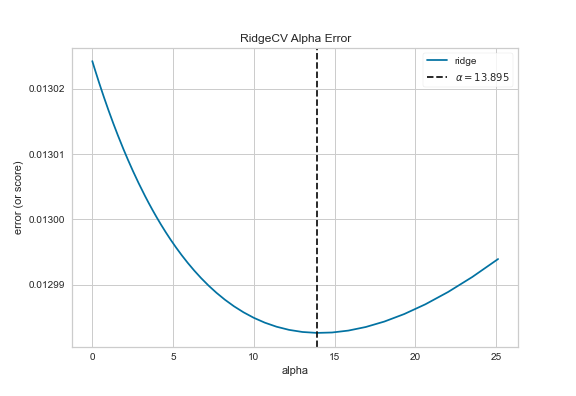
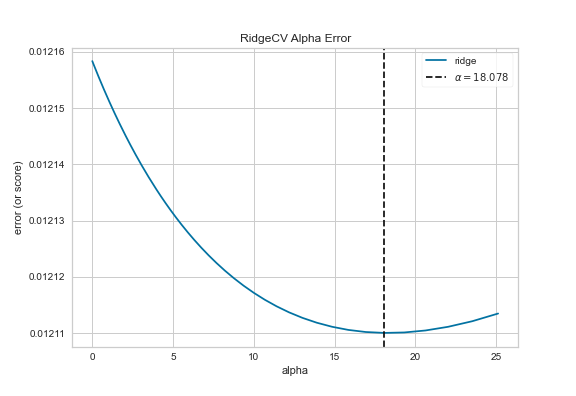
push me

diff --git a/alphachecking_Rachel.py b/alphachecking_Rachel.py
@@ -17,6 +17,67 @@ def splitdata(df, feat, predictors):
     y = df[feat]
     X = df[predictors]
     return X, y
+    
+
+def splitdata_normalize(df, feat, predictors):  
+    df2= df[[feat] + predictors] #returns a numpy array
+    min_max_scaler = preprocessing.MinMaxScaler()
+    xy_scaled = min_max_scaler.fit_transform(df2.values)
+    df_scaled = pd.DataFrame(xy_scaled, columns=df2.columns)
+    y = df_scaled[feat]
+    X = df_scaled[predictors]
+    #X_int = pd.DataFrame(np.concatenate( ( np.ones((X.shape[0], 1)), X), axis = 1 ), columns = ['intercept'] + predictors)
+    return X, y
+
+def runRidgeRegPresplit(df, X_train, X_test, y_train, y_test, alpha=1):
+    linreg = Ridge(fit_intercept=True, alpha=alpha)
+    linreg.fit(X_train, y_train)
+    #train_results = getcoeffandpvals(linreg, X_train, y_train)
+    coefs = [linreg.intercept_] + list(linreg.coef_)
+    train_results = pd.DataFrame(coefs, (['intercept']+X_train.columns.to_list()), columns=['coeff'])
+
+    y_pred = linreg.predict(X_test)
+    actualvspred = pd.DataFrame({'Actual': y_test, 'Predicted': y_pred, 'Difference': y_test-y_pred})
+    print(actualvspred.sort_values(by='Difference', ascending=False))
+    print('Mean Absolute Error:', metrics.mean_absolute_error(y_test, y_pred))
+    print('Mean Squared Error:', metrics.mean_squared_error(y_test, y_pred))
+    print('Root Mean Squared Error:', np.sqrt(metrics.mean_squared_error(y_test, y_pred)))
+    print('Alpha:', alpha)
+    return linreg, actualvspred, train_results
+
+def checkOptimalAlphaTrain(X_train, y_train, savefigure=False):
+    alphas = np.logspace(-10, 1.4, 400)
+
+    # Instantiate the linear model and visualizer
+    model = RidgeCV(alphas=alphas)
+    visualizer = AlphaSelection(model)
+    visualizer.fit(X_train, y_train)
+    opt_alpha = (visualizer.alpha_)
+    ax = visualizer.show()
+    if savefigure != False:
+        ax.figure.savefig(savefigure)
+    return opt_alpha
+
+def barPlotRegCoef(model, predictors, savefigure=False):
+    coef = pd.Series(model.coef_.flatten(), predictors).sort_values()
+    plt.figure(figsize=(10,8))
+ 
+    coef.plot(kind='bar', title='Model Coefficients')
+    if savefigure != False:
+        plt.savefig(savefigure)
+        plt.show()
+    else: 
+        plt.show()
+        
+def barPlotRegCoef(model, savefigure=False):
+    visualizer = ResidualsPlot(model)
+    visualizer.fit(X_train, y_train)
+    visualizer.score(X_test, y_test)
+    ax = visualizer.show()
+    if savefigure != False:
+        ax.figure.savefig(savefigure)
+
+
 
 #import data
 df_all = pd.read_excel('CondensedDataandKey.xlsx',sheet_name='data')
@@ -58,77 +119,18 @@ pred_PSQI_comp_vars = ['PSQI_Comp1', 'PSQI_Comp2', 'PSQI_Comp3', 'PSQI_Comp4', '
 
 pred_cog_vars = ['CogFluidComp_AgeAdj','CogCrystalComp_AgeAdj'] + control_vars
 
-def checkOptimalAlphaTrain(X_train, y_train, savefigure=False):
-    alphas = np.logspace(-10, 1.4, 400)
-    
-    # Instantiate the linear model and visualizer
-    model = RidgeCV(alphas=alphas)
-    visualizer = AlphaSelection(model)
-    visualizer.fit(X_train, y_train)
-    opt_alpha = (visualizer.alpha_)
-    ax = visualizer.show()
-    if savefigure != False:
-        ax.figure.savefig(savefigure)
-    return opt_alpha
-    
 
-def splitdata_normalize(df, feat, predictors):  
-    df2= df[[feat] + predictors] #returns a numpy array
-    min_max_scaler = preprocessing.MinMaxScaler()
-    xy_scaled = min_max_scaler.fit_transform(df2.values)
-    df_scaled = pd.DataFrame(xy_scaled, columns=df2.columns)
-    y = df_scaled[feat]
-    X = df_scaled[predictors]
-    #X_int = pd.DataFrame(np.concatenate( ( np.ones((X.shape[0], 1)), X), axis = 1 ), columns = ['intercept'] + predictors)
-    return X, y
-
-
-def runRidgeRegPresplit(df, X_train, X_test, y_train, y_test, alpha=1):
-
-    linreg = Ridge(fit_intercept=True, alpha=alpha)
-    linreg.fit(X_train, y_train)
-    #train_results = getcoeffandpvals(linreg, X_train, y_train)
-    coefs = [linreg.intercept_] + list(linreg.coef_)
-    train_results = pd.DataFrame(coefs, (['intercept']+X_train.columns.to_list()), columns=['coeff'])
-
-    y_pred = linreg.predict(X_test)
-    actualvspred = pd.DataFrame({'Actual': y_test, 'Predicted': y_pred, 'Difference': y_test-y_pred})
-    print(actualvspred.sort_values(by='Difference', ascending=False))
-    print('Mean Absolute Error:', metrics.mean_absolute_error(y_test, y_pred))
-    print('Mean Squared Error:', metrics.mean_squared_error(y_test, y_pred))
-    print('Root Mean Squared Error:', np.sqrt(metrics.mean_squared_error(y_test, y_pred)))
-    print('Alpha:', alpha)
-
-    return linreg, actualvspred, train_results
-
-def barPlotRegCoef(model, predictors, savefigure=False):
-    coef = pd.Series(model.coef_.flatten(), predictors).sort_values()
-    plt.figure(figsize=(10,8))
- 
-    coef.plot(kind='bar', title='Model Coefficients')
-    plt.show()
-    if savefigure != False:
-        plt.savefig(savefigure)
-
-
-#X, y = splitdata_normalize(df, 'FS_L_Hippo_Vol', pred_PSQI_tot_vars)
-#checkOptimalAlpha(X,y)
-#X,y = splitdata_normalize(df, 'FS_R_Hippo_Vol', pred_PSQI_tot_vars)
-#checkOptimalAlpha(X,y)
-#X,y = splitdata_normalize(df, 'FS_L_Hippo_Vol', pred_PSQI_comp_vars)
-#checkOptimalAlpha(X,y)
-#X,y = splitdata_normalize(df, 'FS_R_Hippo_Vol', pred_PSQI_comp_vars)
-#checkOptimalAlpha(X,y)
-
-
+print('\nModel 1: Predicting HV using Global PSQI \n')
 X_1, y_1 = splitdata_normalize(df, 'Bilat_Hippo_normICV', pred_PSQI_tot_vars)
 X_train_1, X_test_1, y_train_1, y_test_1 = train_test_split(X_1, y_1, test_size=0.25, random_state=None)
 alpha_1 = checkOptimalAlphaTrain(X_train_1, y_train_1, savefigure = 'alphaTotPSQI.png')
 TotPSQI_reg, TotPSQI_actualvspred, TotPSQI_train_results= runRidgeRegPresplit(
     df, X_train_1, X_test_1, y_train_1, y_test_1, alpha=alpha_1)
 
-barPlotRegCoef(TotPSQI_reg, ['Global PSQI', 'Gender', 'Age'])
+barPlotRegCoef(TotPSQI_reg, ['Global PSQI', 'Gender', 'Age'],savefigure='Model1.png')
 
+
+print('\nModel 2: Predicting HV using PSQI Components \n')
 
 X_2, y_2 = splitdata_normalize(df, 'Bilat_Hippo_normICV', pred_PSQI_comp_vars)
 X_train_2, X_test_2, y_train_2, y_test_2 = train_test_split(X_2, y_2, test_size=0.25, random_state=None)
@@ -136,7 +138,10 @@ alpha_2 = checkOptimalAlphaTrain(X_train_2, y_train_2, savefigure = 'alphaCompPS
 CompPSQI_reg, CompPSQI_actualvspred, CompPSQI_train_results= runRidgeRegPresplit(
     df, X_train_2, X_test_2, y_train_2, y_test_2, alpha=alpha_2)
 
-barPlotRegCoef(CompPSQI_reg, ['PSQI-1', 'PSQI-2', 'PSQI-3', 'PSQI-4', 'PSQI-5', 'PSQI-6', 'PSQI-7', 'Gender', 'Age'])
+barPlotRegCoef(CompPSQI_reg, ['PSQI-1', 'PSQI-2', 'PSQI-3', 'PSQI-4', 'PSQI-5', 'PSQI-6', 'PSQI-7', 'Gender', 'Age'],savefigure='Model2.png')
+
+
+print('\nModel 3: Predicting HV using Cognitive Scores \n')
 
 X_3, y_3 = splitdata_normalize(df, 'Bilat_Hippo_normICV', pred_cog_vars)
 X_train_3, X_test_3, y_train_3, y_test_3 = train_test_split(X_3, y_3, test_size=0.25, random_state=None)
@@ -144,24 +149,18 @@ alpha_3 = checkOptimalAlphaTrain(X_train_3, y_train_3, savefigure = 'alphaCompIn
 Cog2_reg, Cog2_actualvspred, Cog2_train_results= runRidgeRegPresplit(
     df, X_train_3, X_test_3, y_train_3, y_test_3, alpha=alpha_3)
 
-barPlotRegCoef(Cog2_reg, ['Fluid Cognition', 'Crystallized Cognition', 'Gender', 'Age'])
+barPlotRegCoef(Cog2_reg, ['Fluid Cognition', 'Crystallized Cognition', 'Gender', 'Age'],savefigure='Model3.png')
 
 
-# ['CogFluidComp_AgeAdj','CogCrystalComp_AgeAdj', 'PSQI_Comp1', 'PSQI_Comp2', 'PSQI_Comp3', 'PSQI_Comp4', 'PSQI_Comp5', 'PSQI_Comp6', 'PSQI_Comp7'] + control_vars
-
-# pred_cog_vars = ['CogFluidComp_AgeAdj','CogCrystalComp_AgeAdj'] + control_vars
-
-
-X, y = splitdata_normalize(df, 'Bilat_Hippo_Vol', ['PSQI_Score','CogFluidComp_AgeAdj','CogCrystalComp_AgeAdj', 'PSQI_Comp1', 'PSQI_Comp2', 'PSQI_Comp3', 'PSQI_Comp4', 'PSQI_Comp5', 'PSQI_Comp6', 'PSQI_Comp7'] + control_vars)
+print('\nModel 4: Predicting HV using Sleep + Cognitive Scores \n')
+X, y = splitdata_normalize(df, 'Bilat_Hippo_Vol', ['CogFluidComp_AgeAdj','CogCrystalComp_AgeAdj', 'PSQI_Comp1', 'PSQI_Comp2', 'PSQI_Comp3', 'PSQI_Comp4', 'PSQI_Comp5', 'PSQI_Comp6', 'PSQI_Comp7'] + control_vars)
 X_train, X_test, y_train, y_test = train_test_split(X, y, test_size=0.25, random_state=None)
-alpha = checkOptimalAlphaTrain(X_train, y_train)
+alpha = checkOptimalAlphaTrain(X_train, y_train, savefigure = 'alphaModel4.png')
 All_reg, All_actualvspred, All_train_results= runRidgeRegPresplit(
     df, X_train, X_test, y_train, y_test, alpha=alpha)
 
 
-barPlotRegCoef(All_reg, ['Global PSQI','Fluid Cognition', 'Crystallized Cognition', 'PSQI-1', 'PSQI-2', 'PSQI-3', 'PSQI-4', 'PSQI-5', 'PSQI-6', 'PSQI-7', 'Gender', 'Age'])
-
-
+barPlotRegCoef(All_reg, ['Fluid Cognition', 'Crystallized Cognition', 'PSQI-1', 'PSQI-2', 'PSQI-3', 'PSQI-4', 'PSQI-5', 'PSQI-6', 'PSQI-7', 'Gender', 'Age'],savefigure='Model4.png')
 
 
 
